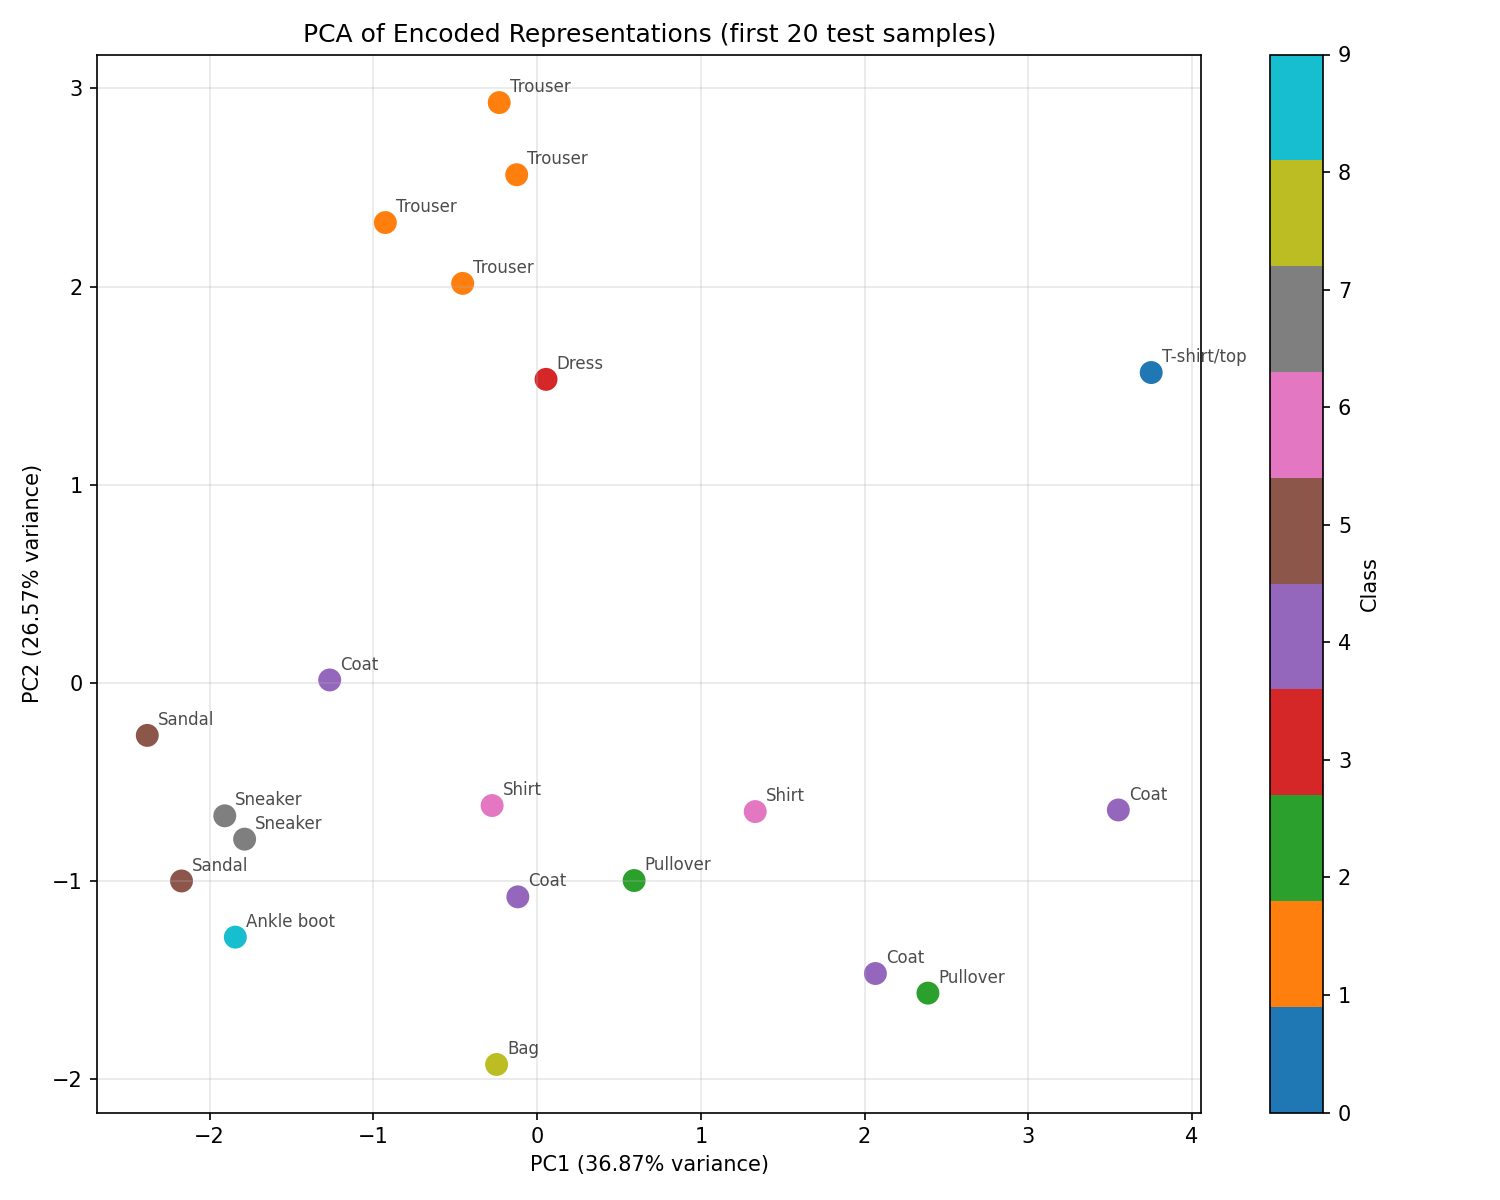
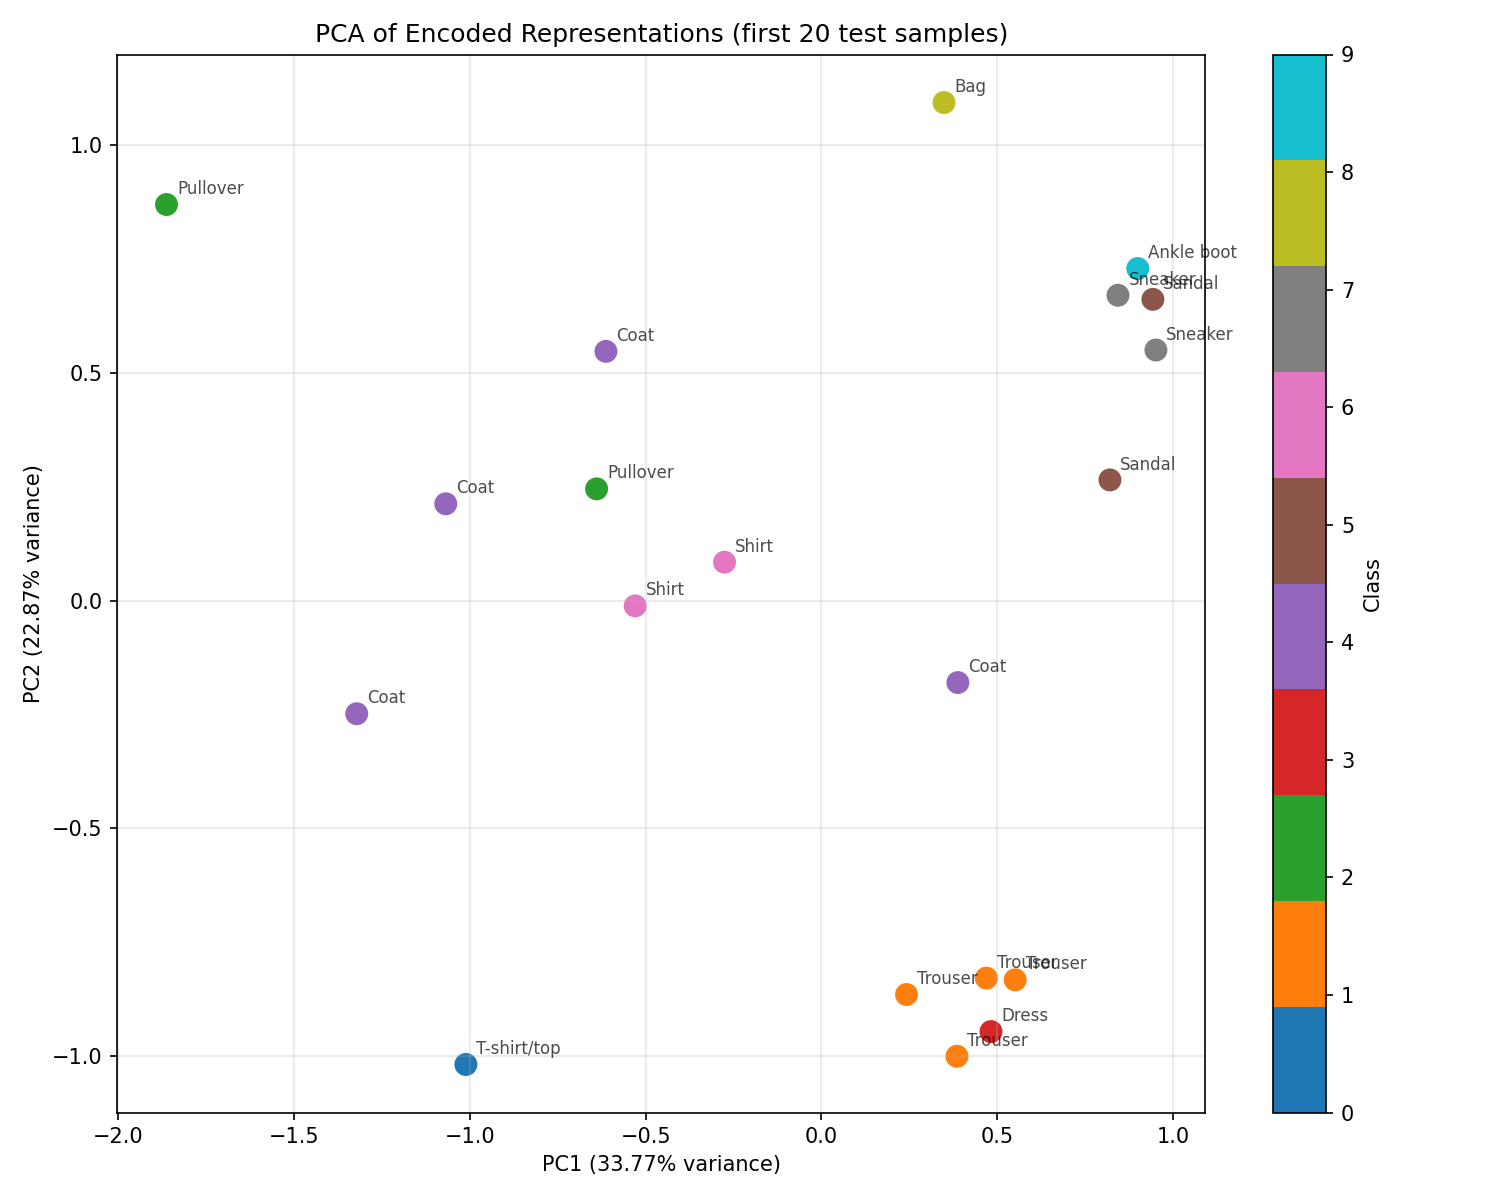
remove relu in bottleneck

diff --git a/src/fashion_mnist/train.py b/src/fashion_mnist/train.py
@@ -4,15 +4,11 @@ import mlx.core as mx
 import mlx.nn as nn
 import mlx.optimizers as optim
 # import fashion MNIST dataset from keras
-import tensorflow as tf
 from tensorflow import keras
 import matplotlib.pyplot as plt
 import time
 import numpy as np
 from sklearn.decomposition import PCA
-
-# Set random seed for reproducibility
-mx.random.seed(42)
 
 # Fashion MNIST class names
 CLASS_NAMES = ['T-shirt/top', 'Trouser', 'Pullover', 'Dress', 'Coat',
@@ -56,7 +52,7 @@ class FashionMNISTNet(nn.Module):
     
     def encoder(self, x):
         x = self.relu(self.fc1(x))
-        x = self.relu(self.fc2(x))
+        x = self.fc2(x)
         return x
 
     def decoder(self, x):
@@ -65,10 +61,8 @@ class FashionMNISTNet(nn.Module):
         return x
 
     def __call__(self, x):
-        x = self.relu(self.fc1(x))
-        x = self.relu(self.fc2(x))
-        x = self.relu(self.fc3(x))
-        x = self.fc4(x)
+        x = self.encoder(x)
+        x = self.decoder(x)
         return x
 
 # Loss function
@@ -76,7 +70,7 @@ def loss_fn(model, X):
     return mx.mean((X - model(X)) ** 2)
 
 # Training function
-def train_model(model, train_data, test_data, batch_size, epochs=10, learning_rate=0.001):
+def train_model(model, train_data, batch_size, epochs=10, learning_rate=0.001):
     train_images, train_labels = train_data
 
     # Define optimizer and gradient function
@@ -132,7 +126,7 @@ if __name__ == "__main__":
     mx.eval(model.parameters())
 
     print("Starting training...")
-    train_model(model, train_data, test_data, batch_size, EPOCHS, LEARNING_RATE)
+    train_model(model, train_data, batch_size, EPOCHS, LEARNING_RATE)
 
     print("Training completed!")
 
